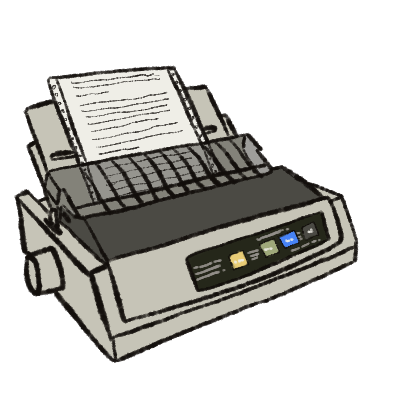
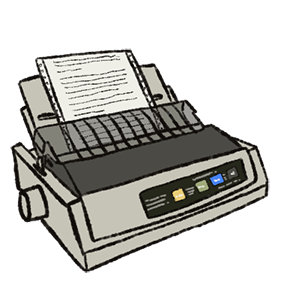
Resize all images and Style Contact modal for desktop

diff --git a/src/components/ModalDisplay/ModalHeader/index.js b/src/components/ModalDisplay/ModalHeader/index.js
@@ -1,6 +1,6 @@
 import './style.scss';
 import { FontAwesomeIcon } from '@fortawesome/react-fontawesome';
-import { faAngleLeft } from '@fortawesome/free-solid-svg-icons';
+import { faAngleLeft, faXmark } from '@fortawesome/free-solid-svg-icons';
 
 import { useDispatch } from 'react-redux';
 import { setModal } from '../../../redux/actions/modals';
@@ -11,12 +11,22 @@ const ModalHeader = () => {
   return (
     <div className="modal-header">
       <span className="modal-header__arrow">
-        <FontAwesomeIcon
-          icon={faAngleLeft}
-          size="xl"
-          fixedWidth
-          onClick={() => dispatch(setModal(false, 'none'))}
-        />
+        <div className="mobile">
+          <FontAwesomeIcon
+            icon={faAngleLeft}
+            size="xl"
+            fixedWidth
+            onClick={() => dispatch(setModal(false, 'none'))}
+          />
+        </div>
+        <div className="desktop">
+          <FontAwesomeIcon
+              icon={faXmark}
+              size="xl"
+              fixedWidth
+              onClick={() => dispatch(setModal(false, 'none'))}
+            />
+        </div>
       </span>
     </div>
   );

diff --git a/src/components/ModalDisplay/index.js b/src/components/ModalDisplay/index.js
@@ -17,12 +17,22 @@ const ModalDisplay = () => {
       open={modal}
       onClose={() => dispatch(setModal(false, 'none'))}
     >
-      <section className="menu">
-        <ModalHeader />
-        <MobileMenu />
-        <Contact />
+      <div className="mobile">
+        <section className="menu">
+          <ModalHeader />
+          <MobileMenu />
+          <Contact />
+        </section>
+      </div>
 
-      </section>
+      <div className="desktop">
+        <section className="menu">
+          <div className="menu__modal-desktop">
+            <ModalHeader />
+            <Contact />
+          </div>
+        </section>
+      </div>
 
     </div>
   );

diff --git a/src/components/ModalDisplay/style.scss b/src/components/ModalDisplay/style.scss
@@ -11,3 +11,16 @@
   height: 100%;
   z-index: 50;
 }
+
+// Desktop 
+@media only screen and (min-width: $desktop) {
+  .menu {
+    background-color: $shadow;
+
+    &__modal-desktop {
+      position: relative;
+      top: 50%;
+      transform: translateY(-50%);
+    }
+  }
+}

diff --git a/src/components/ModalDisplay/ModalHeader/style.scss b/src/components/ModalDisplay/ModalHeader/style.scss
@@ -8,5 +8,15 @@
 
   &__arrow {
     color: $text;
+    cursor: pointer;
+  }
+}
+
+// Desktop 
+@media only screen and (min-width: $desktop) {
+  .modal-header {
+    max-width: 400px;
+    background-color: $white;
+    justify-content: flex-end;
   }
 }

diff --git a/src/components/Navigation/index.js b/src/components/Navigation/index.js
@@ -75,6 +75,7 @@ const Navigation = () => {
               icon={faEnvelope}
               size="xl"
               fixedWidth
+              onClick={() => dispatch(setModal(true, 'contact'))}
             />
           </span>
         </nav>

diff --git a/src/components/ModalDisplay/Contact/style.scss b/src/components/ModalDisplay/Contact/style.scss
@@ -77,3 +77,12 @@
     }
   }
 }
+
+// Desktop 
+@media only screen and (min-width: $desktop) {
+  .contact {
+    background-color: $white;
+    width: 400px;
+    max-height: 620px;
+  }
+}
